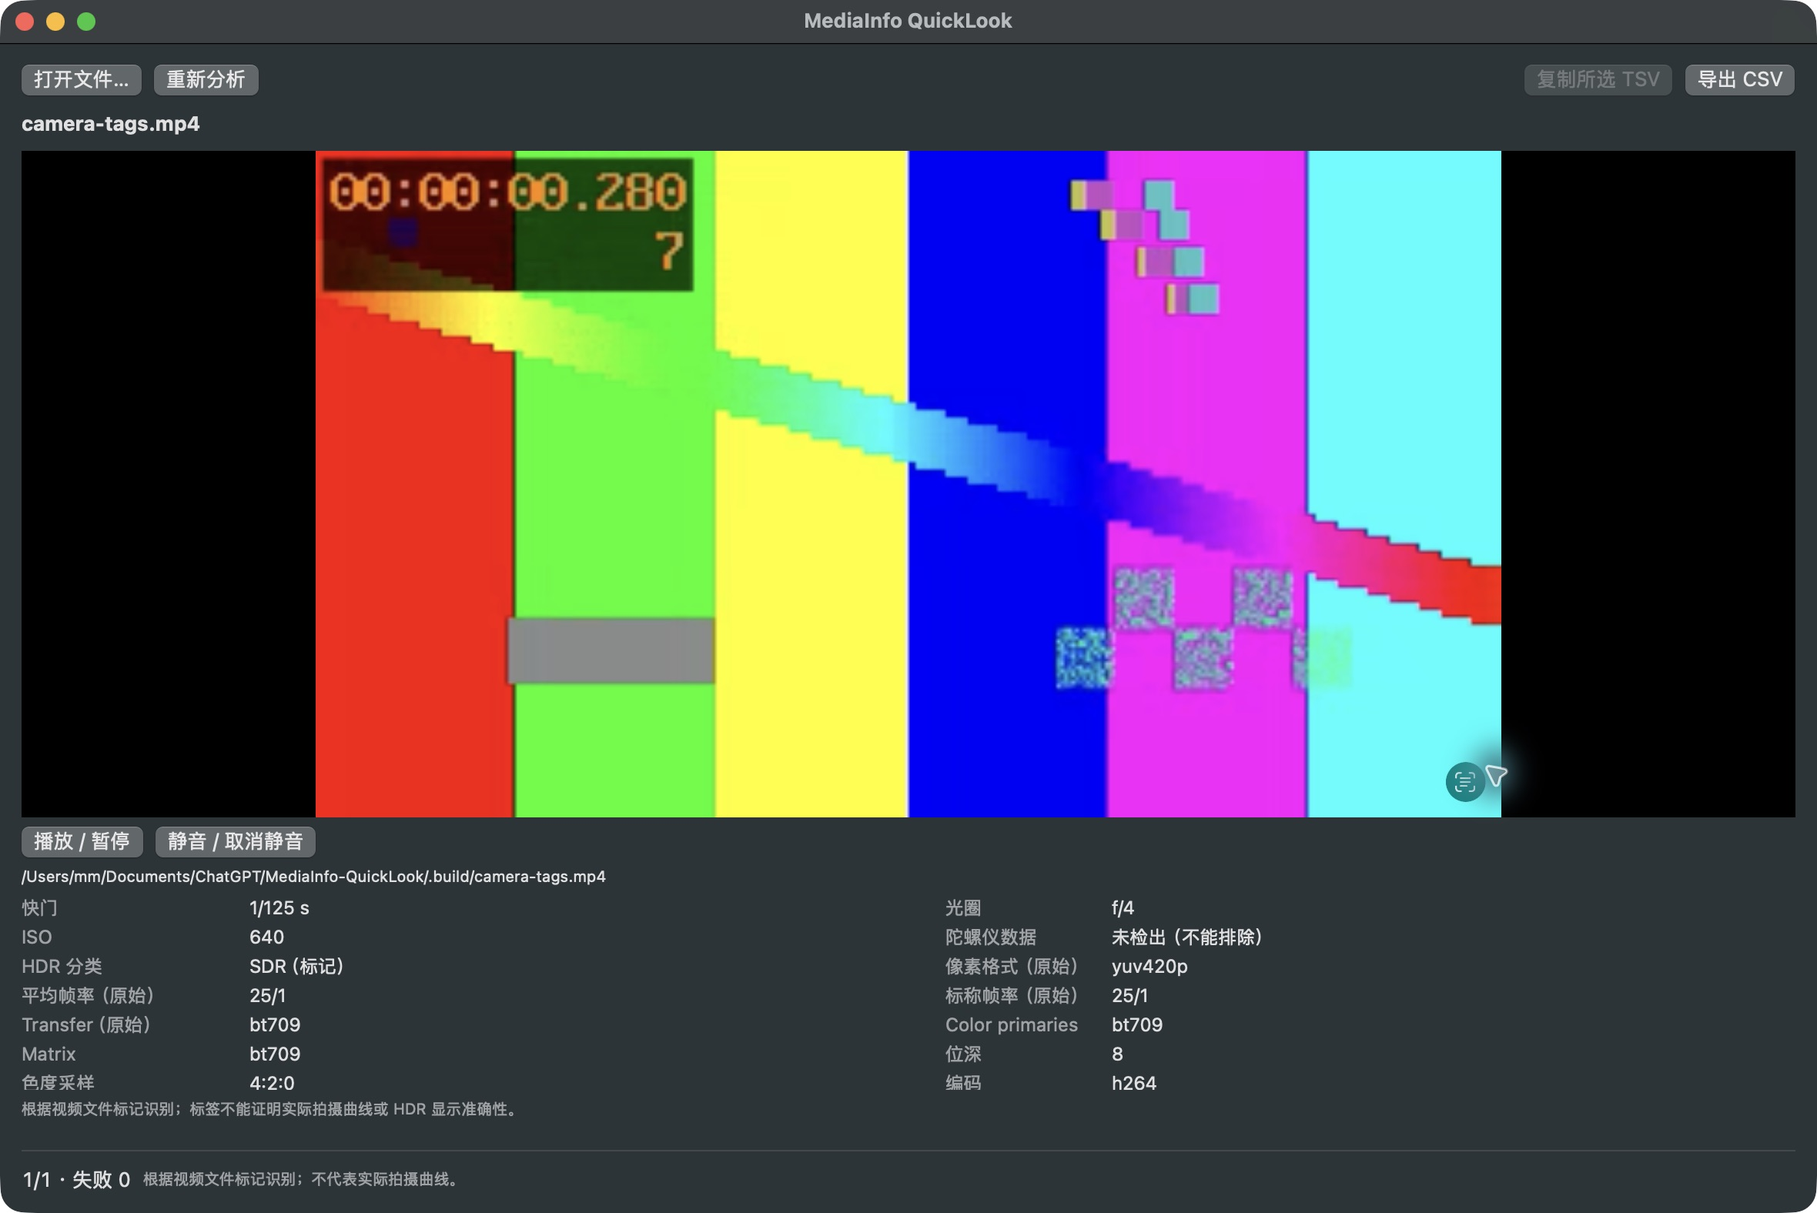
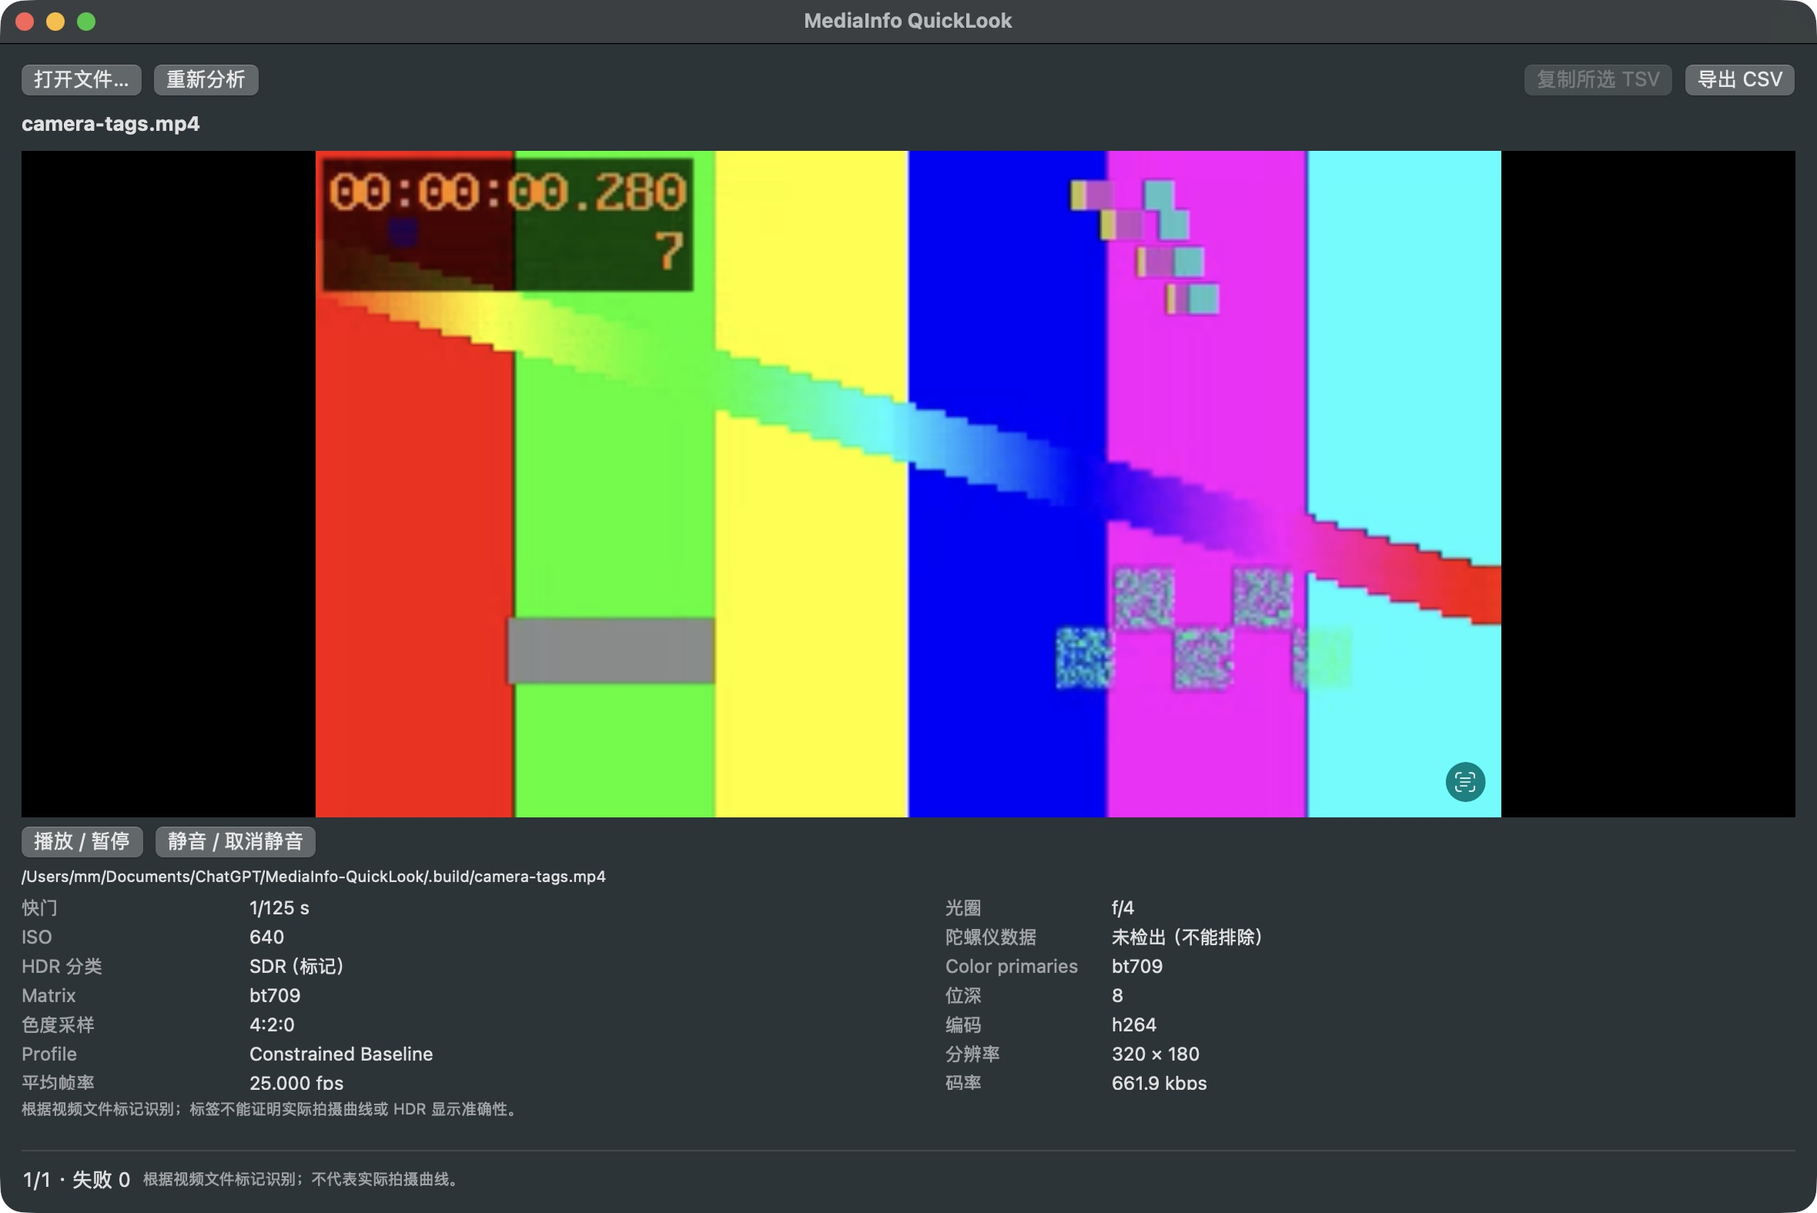
feat: simplify preview metadata and format media quantities

diff --git a/Sources/MediaInfoCore/MetadataExport.swift b/Sources/MediaInfoCore/MetadataExport.swift
@@ -1,9 +1,9 @@
 import Foundation
 
 public enum MetadataExport {
-    public static let headers = ["文件名", "路径", "HDR 分类", "Transfer", "Primaries", "Matrix", "位深", "色度采样", "编码", "Profile", "分辨率", "帧率", "码率", "时长", "容器", "文件大小", "相机", "提示", "错误", "快门", "光圈", "ISO", "陀螺仪数据", "拍摄参数来源", "拍摄参数说明"]
+    public static let headers = ["文件名", "路径", "HDR 分类", "Transfer", "Primaries", "Matrix", "位深", "色度采样", "编码", "Profile", "分辨率", "帧率", "码率", "时长", "容器", "文件大小", "相机", "提示", "错误", "快门", "光圈", "ISO", "陀螺仪数据"]
     public static func cells(url: URL, metadata m: MediaMetadata?, error: String?) -> [String] {
-        [url.lastPathComponent, url.path, m?.hdr.title ?? "", m?.transfer ?? "", m?.primaries ?? "", m?.matrix ?? "", m?.bitDepth ?? "", m?.chroma ?? "", m?.codec ?? "", m?.profile ?? "", m?.resolution ?? "", m?.frameRate ?? "", m?.bitRate ?? "", m?.duration ?? "", m?.container ?? "", m?.fileSize ?? "", m?.camera ?? "", m?.warning ?? "", error ?? "", m?.capture?.shutter ?? "", m?.capture?.aperture ?? "", m?.capture?.iso ?? "", m?.capture?.gyro ?? "", m?.capture?.source ?? "", m?.capture?.note ?? ""]
+        [url.lastPathComponent, url.path, m?.hdr.title ?? "", m?.transfer ?? "", m?.primaries ?? "", m?.matrix ?? "", m?.bitDepth ?? "", m?.chroma ?? "", m?.codec ?? "", m?.profile ?? "", m?.resolution ?? "", m?.frameRate ?? "", m?.displayBitRate ?? "", m?.displayDuration ?? "", m?.container ?? "", m?.displayFileSize ?? "", m?.camera ?? "", m?.warning ?? "", error ?? "", m?.capture?.shutter ?? "", m?.capture?.aperture ?? "", m?.capture?.iso ?? "", m?.capture?.gyro ?? ""]
     }
     private static func encode(_ rows: [[String]], separator: String) -> String {
         rows.map { row in row.map { cell in

diff --git a/Sources/MediaInfoQuickLook/AppModel.swift b/Sources/MediaInfoQuickLook/AppModel.swift
@@ -44,8 +44,8 @@ struct MediaRow: Identifiable {
             let index = min(max(sortColumn, 0), ac.count - 1)
             let comparison: ComparisonResult
             if [4, 8, 9, 10].contains(index) {
-                let av = Double(ac[index].split(separator: " ").first.map(String.init) ?? "")
-                let bv = Double(bc[index].split(separator: " ").first.map(String.init) ?? "")
+                let av = index == 9 ? a.metadata?.bitRateValue : index == 10 ? a.metadata?.durationValue : Double(ac[index].split(separator: " ").first.map(String.init) ?? "")
+                let bv = index == 9 ? b.metadata?.bitRateValue : index == 10 ? b.metadata?.durationValue : Double(bc[index].split(separator: " ").first.map(String.init) ?? "")
                 if av == nil && bv != nil { return false }
                 if av != nil && bv == nil { return true }
                 if let av, let bv { comparison = av == bv ? .orderedSame : (av < bv ? .orderedAscending : .orderedDescending) }
@@ -57,7 +57,7 @@ struct MediaRow: Identifiable {
     }
     func cells(_ row: MediaRow) -> [String] {
         let m = row.metadata
-        return [row.url.lastPathComponent, m?.hdr.title ?? row.state, m?.transfer ?? "—", m?.primaries ?? "—", m?.bitDepth ?? "—", m?.chroma ?? "—", m?.codec ?? "—", m?.resolution ?? "—", m?.frameRate ?? "—", m?.bitRate ?? "—", m?.duration ?? "—", row.error ?? m?.warning ?? ""]
+        return [row.url.lastPathComponent, m?.hdr.title ?? row.state, m?.transfer ?? "—", m?.primaries ?? "—", m?.bitDepth ?? "—", m?.chroma ?? "—", m?.codec ?? "—", m?.resolution ?? "—", m?.frameRate ?? "—", m?.displayBitRate ?? "—", m?.displayDuration ?? "—", row.error ?? m?.warning ?? ""]
     }
     func openPanel() {
         let panel = NSOpenPanel(); panel.allowsMultipleSelection = true; panel.canChooseDirectories = false

diff --git a/Tests/MediaInfoCoreTests/StandaloneChecks.swift b/Tests/MediaInfoCoreTests/StandaloneChecks.swift
@@ -22,6 +22,15 @@ import Foundation
         do { _ = try MediaMetadata.parse(data: Data(#"{"streams":[{"codec_type":"audio"}]}"#.utf8)); fatalError("Expected noVideo") } catch MetadataError.noVideo {}
         require(MetadataExport.csv(rows: [["a,b", "c\"d", "中文\nx"]], bom: false) == "\"a,b\",\"c\"\"d\",\"中文\nx\"\r\n", "CSV escaping")
         require(MetadataExport.tsv(rows: [["a\tb", "x\ny"]]) == "\"a\tb\"\t\"x\ny\"\r\n", "TSV escaping")
+        let readable = try MediaMetadata.parse(data: Data(#"{"streams":[{"codec_type":"video","bit_rate":"23333130","duration":"1.001"}],"format":{"size":"5305014"}}"#.utf8))
+        let readableCells = MetadataExport.cells(url: URL(fileURLWithPath: "/sample.mov"), metadata: readable, error: nil)
+        require(readableCells[12] == "23.3 Mbps" && readableCells[13] == "1.0 s" && readableCells[15] == "5.3 MB", "Readable bitrate, one-decimal duration and file size")
+        require(readableCells.count == MetadataExport.headers.count, "Export columns align")
+        var values = readable
+        values.bitRate = "999999 bit/s"; values.fileSize = "0 bytes"; values.duration = "12.56 s"
+        require(values.displayBitRate == "1 Mbps" && values.displayFileSize == "0 B" && values.displayDuration == "12.6 s", "Quantity boundaries and rounding")
+        values.bitRate = "nan bit/s"; values.fileSize = "-1 bytes"; values.duration = "未知"
+        require(values.displayBitRate == "未知" && values.displayFileSize == "未知" && values.displayDuration == "未知", "Invalid quantities remain unknown")
         let path = FileManager.default.temporaryDirectory.appendingPathComponent("中文 ' \" ; $(touch nope) " + UUID().uuidString)
         try Data("a".utf8).write(to: path)
         defer { try? FileManager.default.removeItem(at: path) }

diff --git a/Sources/MediaInfoCore/MediaMetadata.swift b/Sources/MediaInfoCore/MediaMetadata.swift
@@ -36,6 +36,26 @@ public struct MediaMetadata: Codable, Sendable {
     public var capture: CameraCapture?
     public var probeIdentity: String?
     public var hdr: HDRKind
+    // Preserve original precision for cache and sorting; round only for presentation.
+    public var bitRateValue: Double? { Self.quantity(bitRate) }
+    public var durationValue: Double? { Self.quantity(duration) }
+    public var displayBitRate: String { Self.scaled(bitRateValue, units: ["bps", "kbps", "Mbps", "Gbps", "Tbps"]) }
+    public var displayDuration: String {
+        durationValue.map { String(format: "%.1f s", locale: Locale(identifier: "en_US_POSIX"), $0) } ?? "未知"
+    }
+    public var displayFileSize: String { Self.scaled(Self.quantity(fileSize), units: ["B", "KB", "MB", "GB", "TB", "PB"]) }
+    private static func quantity(_ text: String) -> Double? {
+        guard let first = text.split(separator: " ").first, let value = Double(first), value.isFinite, value >= 0 else { return nil }
+        return value
+    }
+    private static func scaled(_ value: Double?, units: [String]) -> String {
+        guard var value else { return "未知" }
+        var index = 0
+        while value >= 999.95 && index < units.count - 1 { value /= 1_000; index += 1 }
+        var number = String(format: "%.1f", locale: Locale(identifier: "en_US_POSIX"), value)
+        if number.hasSuffix(".0") { number.removeLast(2) }
+        return "\(number) \(units[index])"
+    }
     public static func parse(data: Data) throws -> Self {
         guard let root = try JSONSerialization.jsonObject(with: data) as? [String: Any] else { throw MetadataError.invalidJSON }
         let streams = root["streams"] as? [[String: Any]] ?? []

diff --git a/Sources/MediaInfoQuickLook/ContentView.swift b/Sources/MediaInfoQuickLook/ContentView.swift
@@ -103,7 +103,7 @@ struct PreviewView: View {
         .onDisappear { playback.stop() }
     }
     private func fields(_ m: MediaMetadata) -> [(String, String)] {
-        [("快门", m.capture?.shutter ?? "未知"), ("光圈", m.capture?.aperture ?? "未知"), ("ISO", m.capture?.iso ?? "未知"), ("陀螺仪数据", m.capture?.gyro ?? "未检出（不能排除）"), ("HDR 分类", m.hdr.title), ("像素格式（原始）", m.rawPixelFormat), ("平均帧率（原始）", m.rawAverageFrameRate), ("标称帧率（原始）", m.rawNominalFrameRate), ("Transfer（原始）", m.transfer), ("Color primaries", m.primaries), ("Matrix", m.matrix), ("位深", m.bitDepth), ("色度采样", m.chroma), ("编码", m.codec), ("Profile", m.profile), ("分辨率", m.resolution), ("平均帧率", m.frameRate), ("码率", m.bitRate), ("时长", m.duration), ("容器", m.container), ("文件大小", m.fileSize), ("相机", m.camera), ("拍摄参数来源", m.capture?.source.isEmpty == false ? m.capture!.source : "未检出"), ("拍摄参数说明", m.capture?.note ?? "")]
+        [("快门", m.capture?.shutter ?? "未知"), ("光圈", m.capture?.aperture ?? "未知"), ("ISO", m.capture?.iso ?? "未知"), ("陀螺仪数据", m.capture?.gyro ?? "未检出（不能排除）"), ("HDR 分类", m.hdr.title), ("Color primaries", m.primaries), ("Matrix", m.matrix), ("位深", m.bitDepth), ("色度采样", m.chroma), ("编码", m.codec), ("Profile", m.profile), ("分辨率", m.resolution), ("平均帧率", m.frameRate), ("码率", m.displayBitRate), ("时长", m.displayDuration), ("容器", m.container), ("文件大小", m.displayFileSize), ("相机", m.camera)]
     }
 }
 

diff --git a/scripts/app-model-check.swift b/scripts/app-model-check.swift
@@ -24,6 +24,20 @@ import AppKit
         model.rows = [a, b]; model.sortColumn = 10; model.sortAscending = true
         guard model.visibleRows.first?.id == b.id else { print("FAIL: decimal duration sorting must use numeric values"); exit(1) }
         print("PASS: decimal duration sorting")
+        var roundedA = try metadata("1.14")
+        roundedA.bitRate = "2000000 bit/s"
+        var roundedB = try metadata("1.11")
+        roundedB.bitRate = "900000 bit/s"
+        let ra = MediaRow(url: a.url, metadata: roundedA)
+        let rb = MediaRow(url: b.url, metadata: roundedB)
+        model.rows = [ra, rb]
+        guard model.cells(ra)[10] == "1.1 s", model.cells(rb)[10] == "1.1 s", model.visibleRows.first?.id == rb.id else { throw CheckFailure.failed("rounded duration must preserve raw sorting") }
+        model.sortColumn = 9
+        guard model.cells(ra)[9] == "2 Mbps", model.cells(rb)[9] == "900 kbps", model.visibleRows.first?.id == rb.id else { throw CheckFailure.failed("scaled bitrate must preserve raw sorting") }
+        model.sortAscending = false
+        guard model.visibleRows.first?.id == ra.id else { throw CheckFailure.failed("descending scaled bitrate sorting") }
+        model.rows = [a, b]; model.sortColumn = 10; model.sortAscending = true
+        print("PASS: rounded duration and mixed bitrate units preserve numeric sorting")
         model.search = "a.mp4"
         guard model.visibleRows.count == 1 else { throw CheckFailure.failed("filename search") }
         model.search = ""; model.filter = "unknown"

diff --git a/Tests/MediaInfoCoreTests/CoreTests.swift b/Tests/MediaInfoCoreTests/CoreTests.swift
@@ -32,6 +32,23 @@ final class CoreTests: XCTestCase {
         XCTAssertEqual(invalid.iso, "未知")
         XCTAssertEqual(invalid.gyro, "无（文件标记）")
     }
+    func testReadableMediaQuantitiesInExport() throws {
+        let m = try MediaMetadata.parse(data: Data(#"{"streams":[{"codec_type":"video","bit_rate":"23333130","duration":"1.001"}],"format":{"size":"5305014"}}"#.utf8))
+        let cells = MetadataExport.cells(url: URL(fileURLWithPath: "/sample.mov"), metadata: m, error: nil)
+        XCTAssertEqual(cells[12], "23.3 Mbps")
+        XCTAssertEqual(cells[13], "1.0 s")
+        XCTAssertEqual(cells[15], "5.3 MB")
+        XCTAssertEqual(cells.count, MetadataExport.headers.count)
+        var values = m
+        values.bitRate = "999999 bit/s"; values.fileSize = "0 bytes"; values.duration = "12.56 s"
+        XCTAssertEqual(values.displayBitRate, "1 Mbps")
+        XCTAssertEqual(values.displayFileSize, "0 B")
+        XCTAssertEqual(values.displayDuration, "12.6 s")
+        values.bitRate = "nan bit/s"; values.fileSize = "-1 bytes"; values.duration = "未知"
+        XCTAssertEqual(values.displayBitRate, "未知")
+        XCTAssertEqual(values.displayFileSize, "未知")
+        XCTAssertEqual(values.displayDuration, "未知")
+    }
     func testClassificationUsesOnlyKnownTransferTags() {
         XCTAssertEqual(HDRKind.classify("arib-std-b67"), .hlg)
         XCTAssertEqual(HDRKind.classify("smpte2084"), .pq)

diff --git a/README.md b/README.md
@@ -2,7 +2,7 @@
 
 原生 macOS 菜单栏视频检查工具，面向 Finder 中的 MP4 / MOV 素材。根据**视频流 transfer 标签**识别 HLG、PQ、SDR（标记）、未知/其他；不猜测 Sony S-Log、Nikon N-Log 或实际拍摄历史。系统 `Space` Quick Look 保留原样。
 
-当前交付：**0.2.0 开发版**，已有实际运行的 Apple Silicon `.app`。不是已公证的正式发行版。功能和测试边界见 [测试结果](docs/TEST-RESULTS.md) 与 [验收清单](docs/ACCEPTANCE.md)。
+当前交付：**0.2.1 开发版**，已有实际运行的 Apple Silicon `.app`。不是已公证的正式发行版。功能和测试边界见 [测试结果](docs/TEST-RESULTS.md) 与 [验收清单](docs/ACCEPTANCE.md)。
 
 ## 界面示例
 
@@ -27,8 +27,8 @@
 
 ## 使用
 
-- **单文件**：播放器优先占据高度，下方信息区压缩为原先约 2/5，内容可滚动。预览默认自动播放，在设置中关闭“预览视频自动播放”后保持暂停，偏好在重启后保留；手动播放不受影响。原生 AVPlayerView 支持播放、暂停、静音和进度拖动；展示 transfer、primaries、matrix、位深、色度采样、编码、profile、宽高、帧率、码率、时长、容器、文件大小、相机字段（存在时）。保留原始 pix_fmt 与平均/标称帧率。播放失败不会阻止元数据展示。
-- **拍摄参数**：单文件信息区顶部显示快门、光圈、ISO、陀螺仪数据检测结果，CSV/TSV 同步追加这些列。ffprobe 读取公开标签，ExifTool 补充支持的厂商/时序元数据；未安装时基础预览照常工作。存在多个已解析值时标记“变化”，不冒充全片固定拍摄值。
+- **单文件**：播放器优先占据高度，下方信息区压缩为原先约 2/5，内容可滚动。预览默认自动播放，在设置中关闭“预览视频自动播放”后保持暂停，偏好在重启后保留；手动播放不受影响。原生 AVPlayerView 支持播放、暂停、静音和进度拖动；展示 HDR 分类、primaries、matrix、位深、色度采样、编码、profile、宽高、帧率、码率、时长、容器、文件大小、相机字段（存在时）。已移除原始像素格式、原始平均/标称帧率、原始 Transfer、拍摄参数来源和说明。时长保留秒后一位小数；码率自动切换 bps/kbps/Mbps/Gbps，文件大小使用 1000 进制 B/KB/MB/GB，最多一位小数；批量排序使用未舍入数值。播放失败不会阻止元数据展示。
+- **拍摄参数**：单文件信息区顶部显示快门、光圈、ISO、陀螺仪数据检测结果，CSV/TSV 同步包含这四列，共 23 列，不导出拍摄参数来源和说明。ffprobe 读取公开标签，ExifTool 补充支持的厂商/时序元数据；未安装时基础预览照常工作。存在多个已解析值时标记“变化”，不冒充全片固定拍摄值。
 - **批量**：先显示文件名，再增量填充元数据；每个文件独立失败。点表头排序（数值列按数值排序），搜索文件名，按 HDR 分类筛选，查看各类数量。“非主流类别”只表示与数量最多类别不同，不等于故障；并列时按固定类别顺序选择参考类别。
 - 双击行预览，返回列表保留排序、筛选、选择和滚动位置。单文件页有切换视频菜单。`Esc` 从批量中的单文件页返回列表，再次按关闭窗口；单独打开一项时直接关闭。
 - 右键表头选择显示列，拖动列边界调整宽度；列宽、列显隐、排序、HDR 筛选和窗口位置持久化。
@@ -43,7 +43,7 @@
 - 只展示文件可解析的拍摄字段；缺失值为未知，不根据帧率推测快门，也不把曝光 APEX 原始值当秒数。ExifTool 以格式化 ExposureTime/FNumber 输出读取。
 - 陀螺仪只有在识别到具体采样字段（如 Gyroscope、AngularVelocity、GyroYPR）时显示“有”；明确的存在/不存在标签另标为“文件标记”。普通 rtmd/gpmd 流、加速度计或防抖开关不足以证明陀螺仪存在。
 - **未检出不等于没有**：Sony/Nikon 等机型可能使用当前工具尚未解析的私有陀螺仪数据。本版没有实现通用的厂商陀螺仪解码器，不等同于 Gyroflow 的支持矩阵。
-- 补充元数据读取使用 `-ee`，长片可能增加扫描耗时；独立超时、取消和有限并发仍生效。失败时保留基础视频参数，并在参数说明中报告。两个外部工具分别默认超时 20 秒。
+- 补充元数据读取使用 `-ee`，长片可能增加扫描耗时；独立超时、取消和有限并发仍生效。失败时保留基础视频参数，缺失的拍摄值显示未知。两个外部工具分别默认超时 20 秒。
 - 用户已确认原片与 HDR 显示验证通过；本轮另在一段 Nikon Z6 III MOV 上核对了 ExifTool 与界面显示一致。详细范围见 [0.2.0 验证记录](docs/PREVIEW-CAMERA-VERIFICATION.md)。
 
 ## 构建
@@ -80,6 +80,8 @@ swift test
 ```
 
 `check.sh` 实际编译并运行独立 Swift 断言程序，生成 HLG/PQ/SDR/未知测试视频、200 个文件副本及损坏文件，验证解析、导出、缓存、超时/取消、AVPlayer 播放时钟与应用扫描模型。需要 ffmpeg/ffprobe；安装 ExifTool 后也执行真实补充元数据读取测试。`FFMPEG`、`FFPROBE`、`EXIFTOOL` 可覆盖测试二进制路径。合成素材位于 `.build/fixtures`；测试会更新这一区域，并清理应用元数据缓存，不修改用户素材。合成测试不能代替 Sony/Nikon 原片与 HDR 显示验收。
+
+本轮显示精简、单位与排序验证见 [0.2.1 验证记录](docs/DISPLAY-VERIFICATION.md)。
 
 详细执行证据：[核心测试](docs/CORE-VERIFICATION.md)、[系统集成](docs/PLATFORM-VERIFICATION.md)、[本次交付结果](docs/TEST-RESULTS.md)。
 

diff --git a/docs/DISPLAY-VERIFICATION.md b/docs/DISPLAY-VERIFICATION.md
@@ -1,0 +1,21 @@
+# 0.2.1 显示优化验证
+
+日期：2026-10-11。本机为 Apple Silicon，Command Line Tools Swift 6.1.2。
+
+## 变更
+
+- 单文件移除拍摄参数说明、原始平均帧率、原始 Transfer、原始像素格式、原始标称帧率、拍摄参数来源；保留快门、光圈、ISO、陀螺仪数据。
+- 时长始终保留秒后一位小数。码率与文件大小按 1000 进制自动切换单位，最多一位小数，整数去掉多余 `.0`。
+- 批量表格和 CSV/TSV 使用相同显示格式；CSV/TSV 去掉拍摄参数来源、说明，共 23 列，保留通用 Transfer 列用于 HDR 标签核对。
+- 原始值仍保存在内部；排序不使用已舍入或已缩放的显示文本，旧缓存无需重扫。
+
+## 本机验证
+
+- 格式回归在修改前失败，修改后通过；覆盖单位边界、零、缺失及非有限/负值。
+- 回归覆盖同样显示为 1.1 s 的两个不同原始时长，以及 900 kbps / 2 Mbps 混合单位的正向与反向排序。
+- `scripts/check.sh` 全部通过：解析、缓存、导出、工具超时/取消、真实 ExifTool、自动播放、四种标签素材、200 文件与损坏文件、应用扫描、热键冲突。
+- `scripts/build-app.sh release` 通过，开发签名校验通过；实际启动 0.2.1 应用。
+- 真实 Nikon MOV 的界面值：23.3 Mbps、1.0 s、5.3 MB；快门 1/3200 s、f/4、ISO 168 保留。仅本机读取，未提交素材、原片截图或私有路径。
+- 合成素材界面截图已更新，六项已移除，紧凑信息区与播放正常。原片核对后保留在应用内供继续使用。
+
+Xcode 和双架构 CI 结果将在运行完成后补充。
